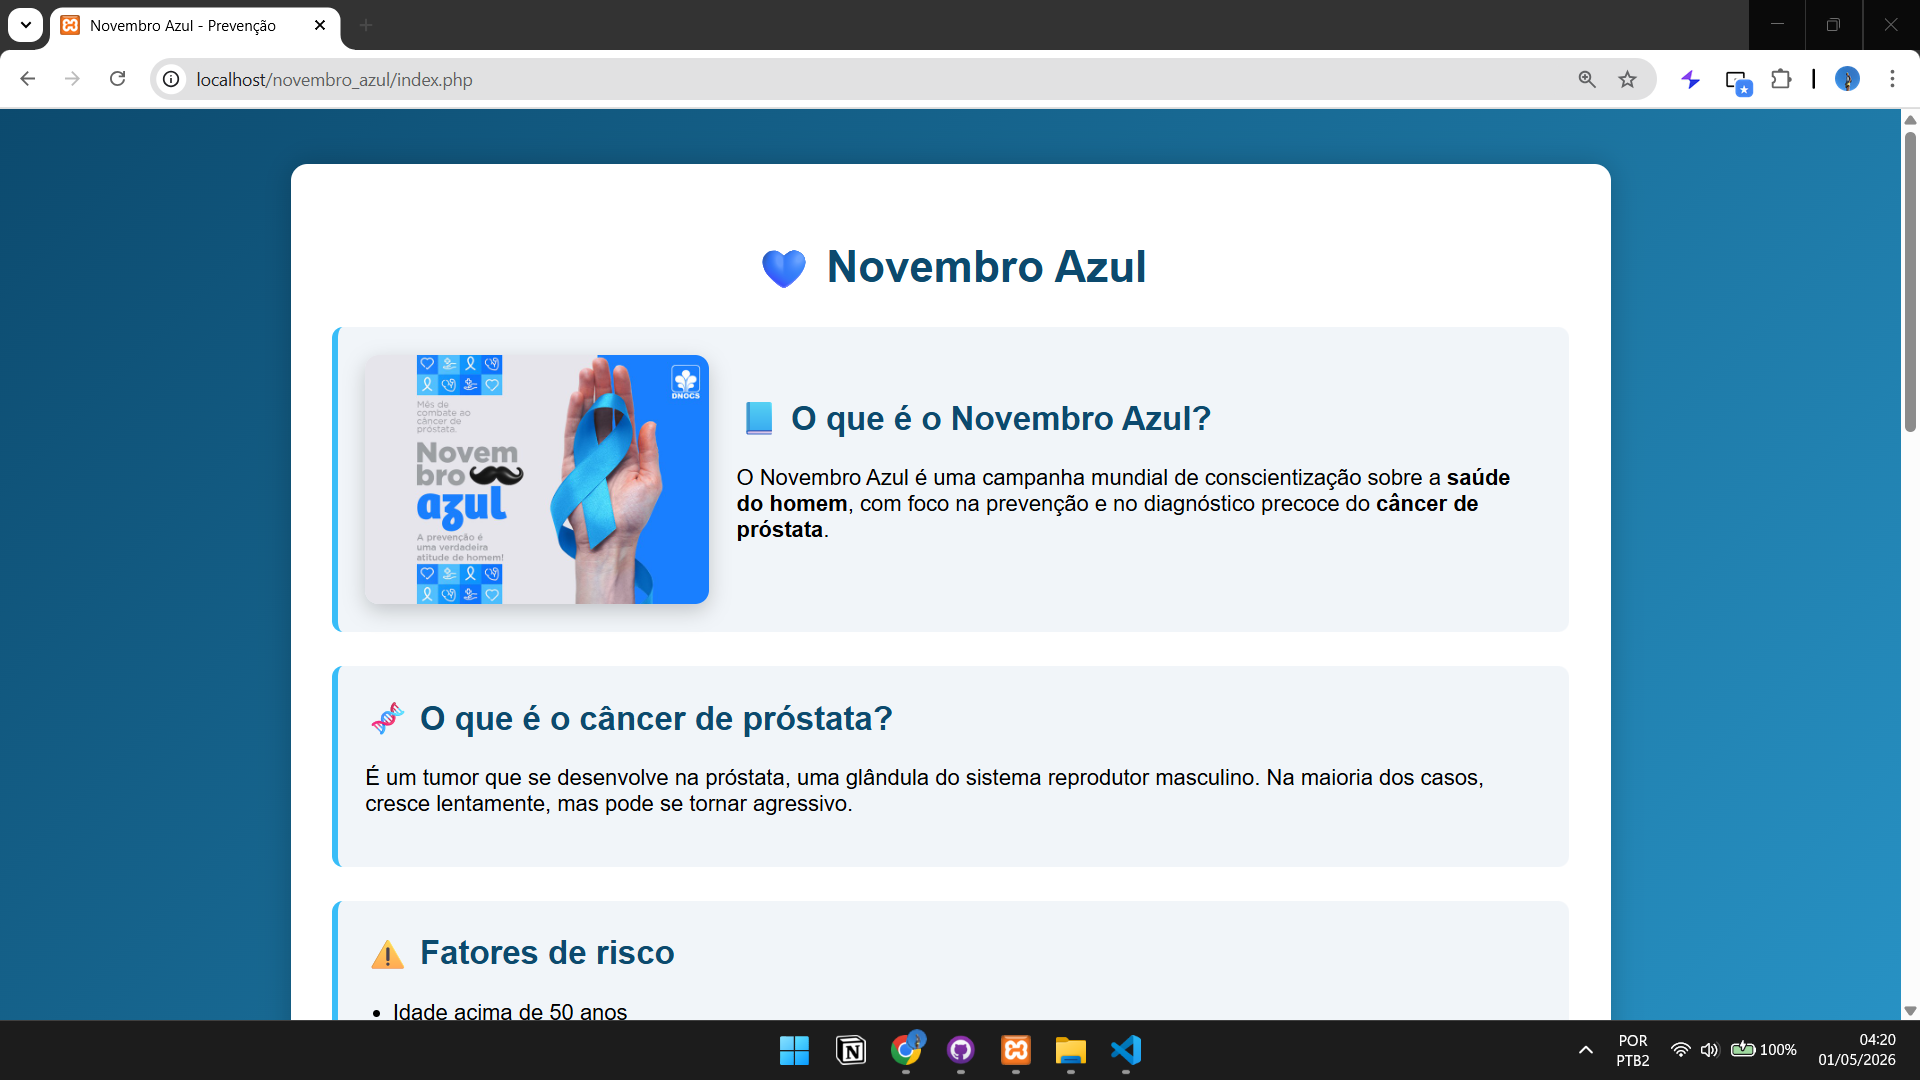
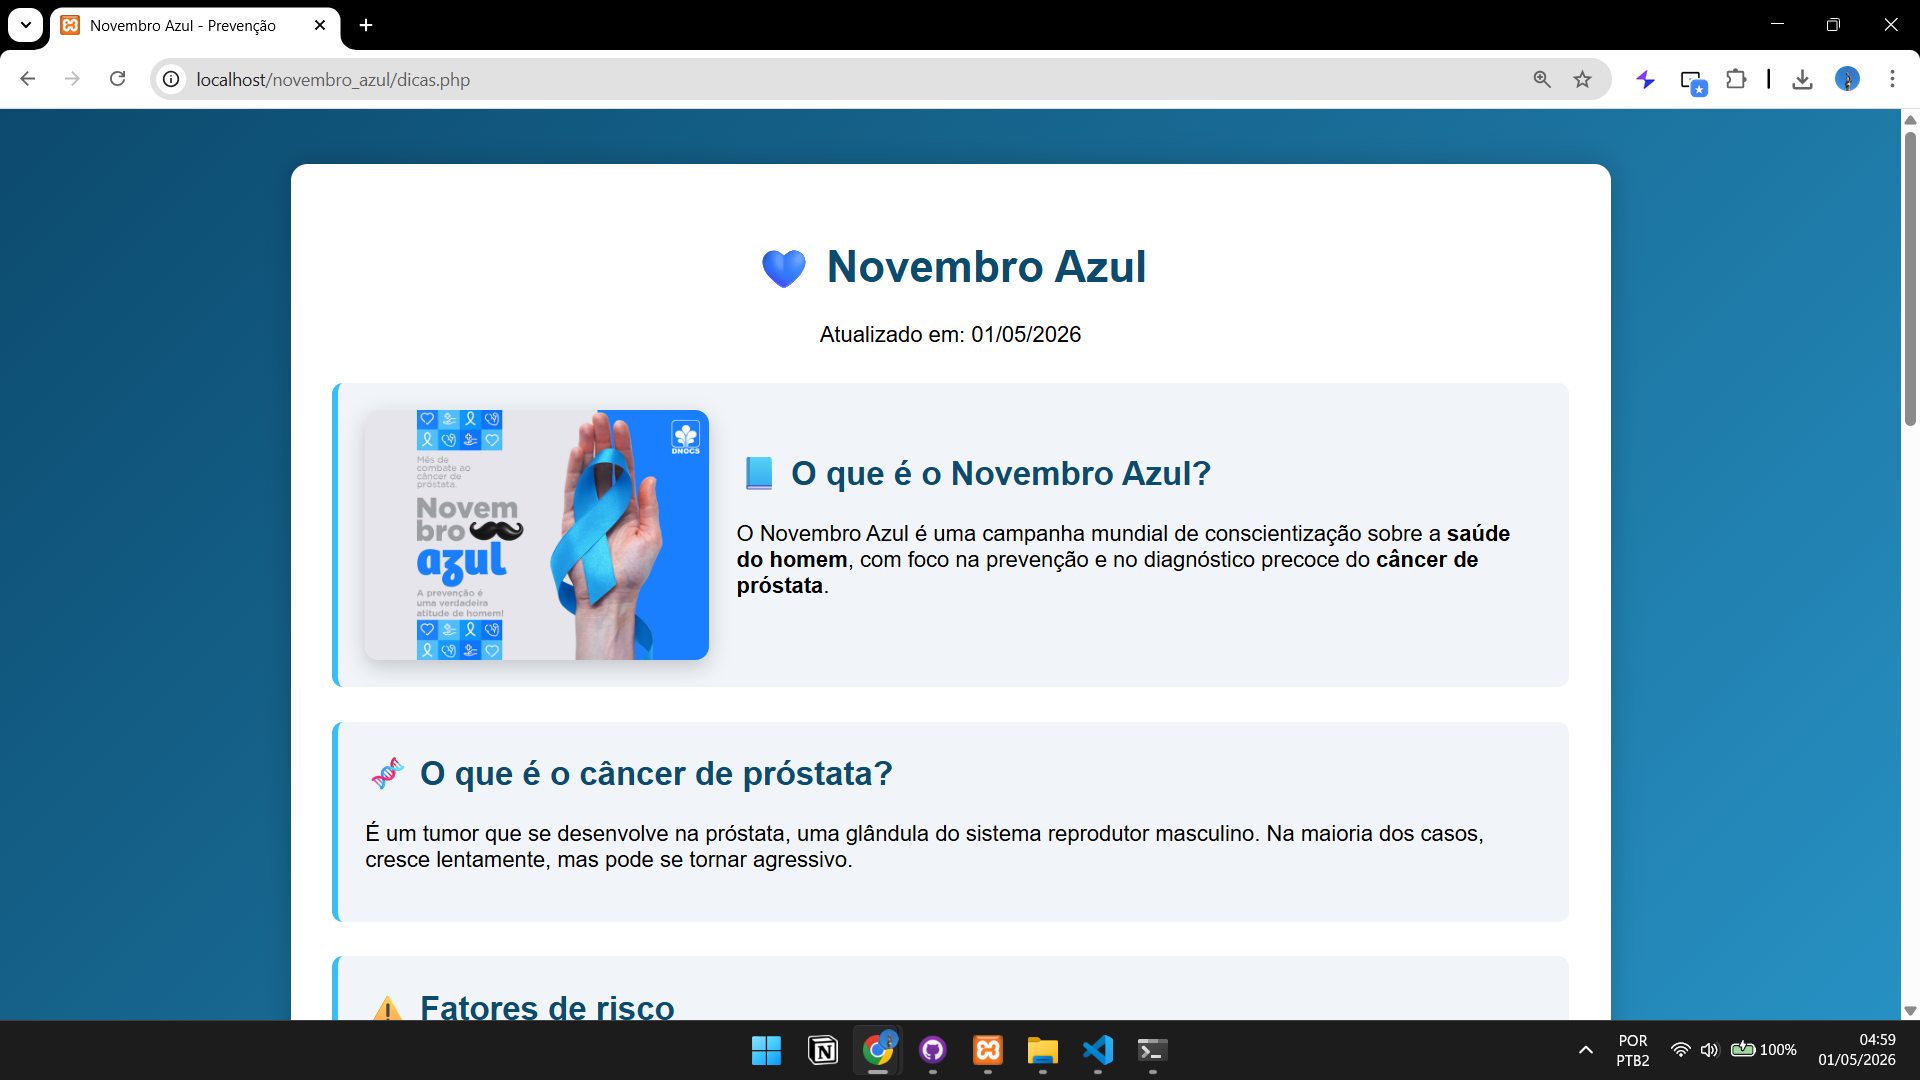
refactor: melhora organização do projeto e separa CSS do HTML

diff --git a/css/style.css b/css/style.css
@@ -1,0 +1,78 @@
+body {
+    margin: 0;
+    font-family: Arial, sans-serif;
+    background: linear-gradient(135deg, #0c4a6e, #38bdf8);
+}
+
+.container {
+    max-width: 900px;
+    margin: 40px auto;
+    background: white;
+    padding: 30px;
+    border-radius: 12px;
+    box-shadow: 0 0 20px rgba(0,0,0,0.2);
+}
+
+h1 {
+    text-align: center;
+    color: #0c4a6e;
+}
+
+.section {
+    margin: 25px 0;
+    padding: 20px;
+    border-left: 5px solid #38bdf8;
+    background: #f1f5f9;
+    border-radius: 8px;
+}
+
+.section h2 {
+    margin-top: 0;
+    color: #0c4a6e;
+}
+
+ul {
+    padding-left: 20px;
+}
+
+iframe {
+    width: 100%;
+    height: 315px;
+    border-radius: 10px;
+    margin-top: 15px;
+        }
+
+.destaque .conteudo {
+    display: flex;
+    align-items: center;
+    gap: 20px;
+}
+
+.destaque img {
+    width: 250px;
+    border-radius: 10px;
+    box-shadow: 0 5px 15px rgba(0,0,0,0.2);
+}
+
+.destaque .texto {
+    flex: 1;
+}
+
+@media (max-width: 768px) {
+    .destaque .conteudo {
+        flex-direction: column;
+        text-align: center;
+    }
+
+    .destaque img {
+        width: 100%;
+        max-width: 300px;
+    }
+}
+
+.footer {
+    text-align: center;
+    margin-top: 20px;
+    font-size: 14px;
+    color: #555;
+}

diff --git a/dicas.php b/dicas.php
@@ -1,107 +1,50 @@
+<?php
+$titulo = "Novembro Azul";
+$data = date("d/m/Y");
+
+$fatores_risco = [
+    "Idade acima de 50 anos",
+    "Histórico familiar",
+    "Sedentarismo",
+    "Alimentação inadequada"
+];
+
+$sintomas = [
+    "Dificuldade para urinar",
+    "Fluxo urinário fraco",
+    "Dor ou desconforto"
+];
+
+$prevencao = [
+    "Manter uma alimentação saudável",
+    "Praticar atividades físicas",
+    "Evitar cigarro e álcool em excesso",
+    "Realizar consultas médicas regularmente"
+];
+?>
+
 <!DOCTYPE html>
 <html lang="pt-br">
 <head>
     <meta charset="UTF-8">
     <meta name="viewport" content="width=device-width, initial-scale=1.0">
-    <title>Novembro Azul - Prevenção</title>
-
-    <style>
-        body {
-            margin: 0;
-            font-family: Arial, sans-serif;
-            background: linear-gradient(135deg, #0c4a6e, #38bdf8);
-        }
-
-        .container {
-            max-width: 900px;
-            margin: 40px auto;
-            background: white;
-            padding: 30px;
-            border-radius: 12px;
-            box-shadow: 0 0 20px rgba(0,0,0,0.2);
-        }
-
-        h1 {
-            text-align: center;
-            color: #0c4a6e;
-        }
-
-        .section {
-            margin: 25px 0;
-            padding: 20px;
-            border-left: 5px solid #38bdf8;
-            background: #f1f5f9;
-            border-radius: 8px;
-        }
-
-        .section h2 {
-            margin-top: 0;
-            color: #0c4a6e;
-        }
-
-        ul {
-            padding-left: 20px;
-        }
-
-        iframe {
-            width: 100%;
-            height: 315px;
-            border-radius: 10px;
-            margin-top: 15px;
-        }
-
-        /* Destaque com imagem */
-        .destaque .conteudo {
-            display: flex;
-            align-items: center;
-            gap: 20px;
-        }
-
-        .destaque img {
-            width: 250px;
-            border-radius: 10px;
-            box-shadow: 0 5px 15px rgba(0,0,0,0.2);
-        }
-
-        .destaque .texto {
-            flex: 1;
-        }
-
-        /* Responsividade */
-        @media (max-width: 768px) {
-            .destaque .conteudo {
-                flex-direction: column;
-                text-align: center;
-            }
-
-            .destaque img {
-                width: 100%;
-                max-width: 300px;
-            }
-        }
-
-        .footer {
-            text-align: center;
-            margin-top: 20px;
-            font-size: 14px;
-            color: #555;
-        }
-    </style>
+    <title><?= $titulo ?> - Prevenção</title>
+    <link rel="stylesheet" href="css/style.css">
 </head>
 <body>
 
 <div class="container">
 
-    <h1>💙 Novembro Azul</h1>
+    <h1>💙 <?= $titulo ?></h1>
+    <p style="text-align:center;">Atualizado em: <?= $data ?></p>
 
-    <!-- Seção destaque -->
+    <!-- Destaque -->
     <div class="section destaque">
         <div class="conteudo">
             <img 
-                src="https://www.gov.br/dnocs/pt-br/assuntos/noticias/novembro-azul-mes-de-conscientizacao-sobre-o-cancer-de-prostata/banner-site.jpg/@@images/1183a85e-3f4a-4abf-b99c-306063b61ded.jpeg" 
+                src="assets/novembro_azul.jpeg" 
                 alt="Campanha Novembro Azul"
             >
-
             <div class="texto">
                 <h2>📘 O que é o Novembro Azul?</h2>
                 <p>
@@ -123,10 +66,9 @@
     <div class="section">
         <h2>⚠ Fatores de risco</h2>
         <ul>
-            <li>Idade acima de 50 anos</li>
-            <li>Histórico familiar</li>
-            <li>Sedentarismo</li>
-            <li>Alimentação inadequada</li>
+            <?php foreach ($fatores_risco as $item): ?>
+                <li><?= $item ?></li>
+            <?php endforeach; ?>
         </ul>
     </div>
 
@@ -136,19 +78,18 @@
             O câncer de próstata pode não apresentar sintomas no início, mas em fases mais avançadas pode causar:
         </p>
         <ul>
-            <li>Dificuldade para urinar</li>
-            <li>Fluxo urinário fraco</li>
-            <li>Dor ou desconforto</li>
+            <?php foreach ($sintomas as $item): ?>
+                <li><?= $item ?></li>
+            <?php endforeach; ?>
         </ul>
     </div>
 
     <div class="section">
         <h2>🛡 Prevenção e cuidados</h2>
         <ul>
-            <li>Manter uma alimentação saudável</li>
-            <li>Praticar atividades físicas</li>
-            <li>Evitar cigarro e álcool em excesso</li>
-            <li>Realizar consultas médicas regularmente</li>
+            <?php foreach ($prevencao as $item): ?>
+                <li><?= $item ?></li>
+            <?php endforeach; ?>
         </ul>
     </div>
 

diff --git a/README.md b/README.md
@@ -60,8 +60,11 @@ Apresentar informações essenciais sobre o **Novembro Azul** de forma clara e d
 novembro_azul/
 │
 ├── dicas.php
+├── css/
+│   └── style.css
 ├── assets/
 │   └── preview.png
+│   └── novembro_azul.jpeg
 └── README.md
 ```
 
